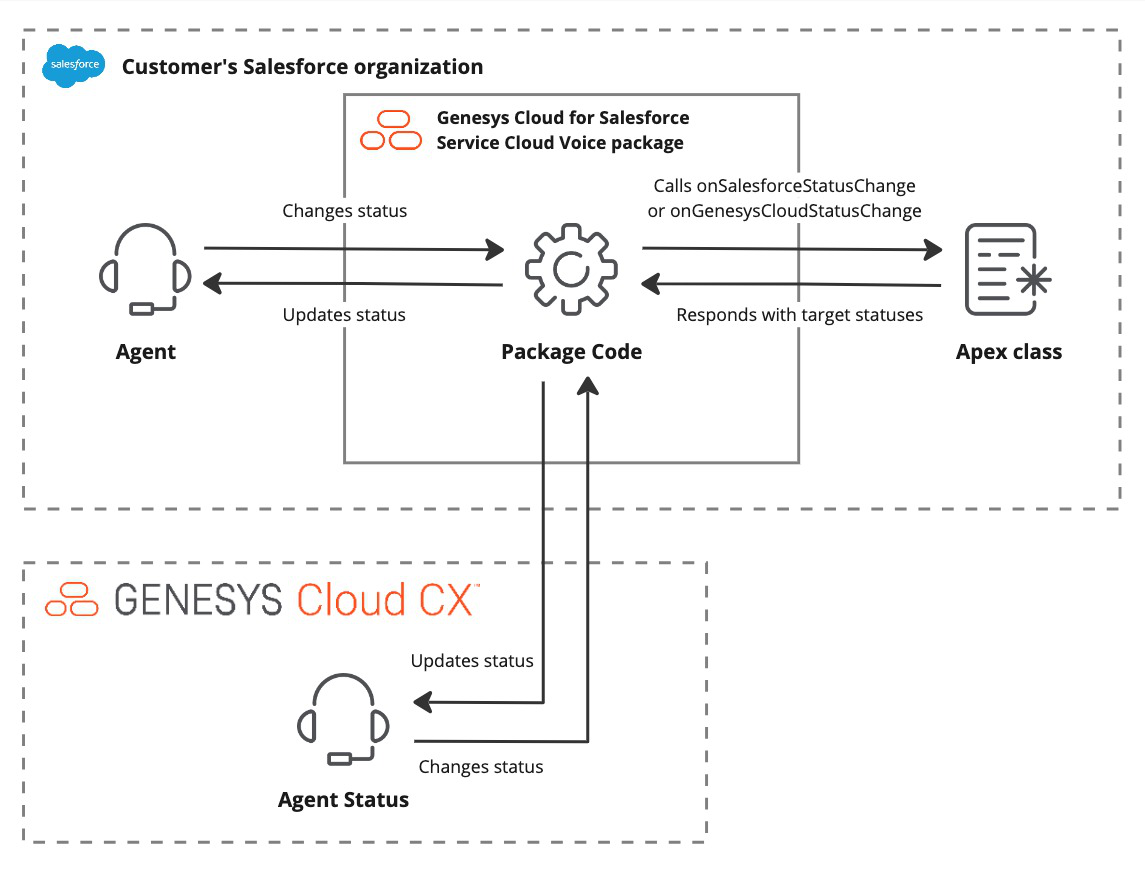
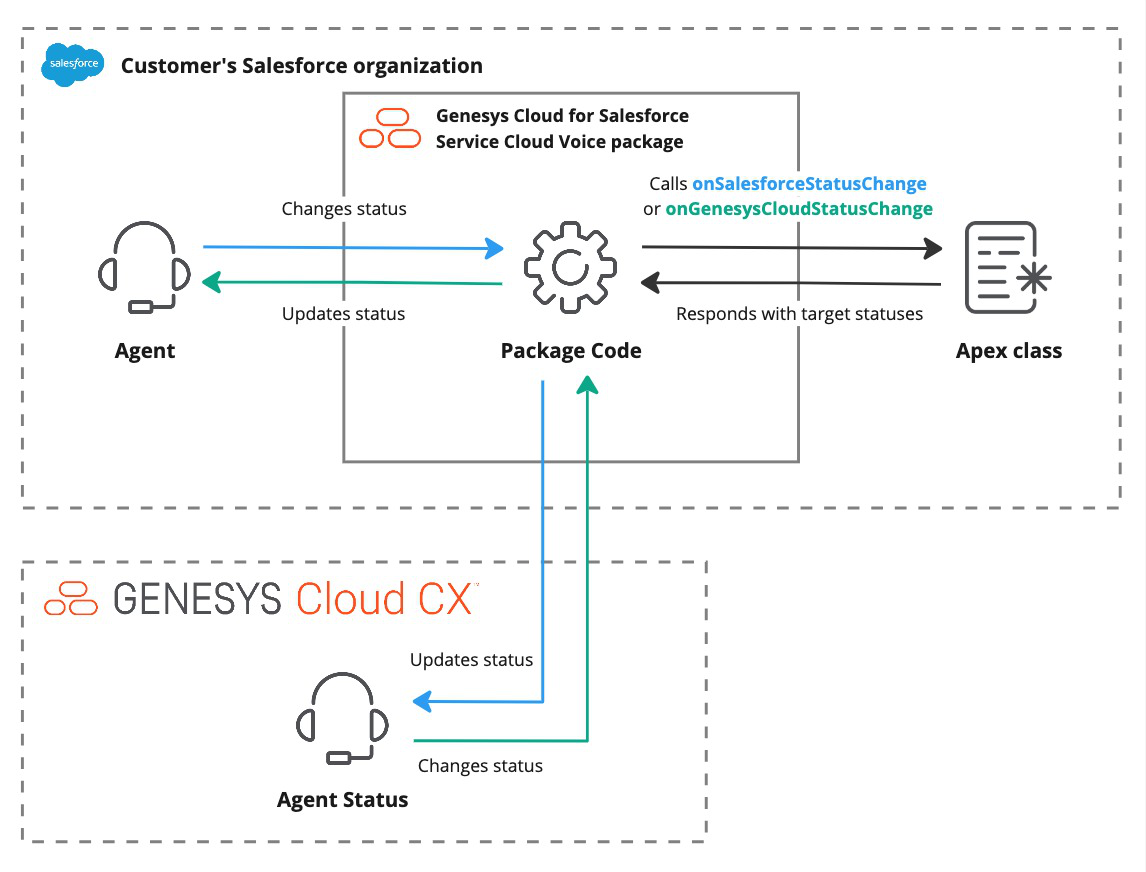
SSCVI-714 Update the image and some text

diff --git a/README.md b/README.md
@@ -1,5 +1,5 @@
 # Update the presence of a Genesys Cloud user based on a Salesforce presence change and vice versa
 
-This Genesys Cloud Developer Blueprint explains how to extend the GenesysSCVExtension.Status class of the Genesys Cloud for Salesforce Service Cloud Voice package. Out of the box, the package provides high level status management. This blueprint will show a way to provide more detailed status mapping between Genesys Cloud and Salesforce Omni-Channel.
+This Genesys Cloud Developer Blueprint demonstrates how to configure Genesys Cloud for Salesforce Service Cloud Voice to use enhanced status syncing. Out of the box, the package provides high level status management. This blueprint will show a way to provide more detailed status mapping between Genesys Cloud and Salesforce Omni-Channel.
 
 ![Workflow for enhanced status syncing with the Genesys Cloud for Salesforce Service Cloud Voice package](/blueprint/images/enhanced_status_syncing.png "Workflow for enhanced status syncing with the Genesys Cloud for Salesforce Service Cloud Voice package")

diff --git a/blueprint/index.md b/blueprint/index.md
@@ -21,7 +21,7 @@ Customers who utilize Workforce Engagement Management will require a deeper stat
 
 ## Solution
 
-This blueprint explains how to extend the GenesysSCVExtension.Status class of the Genesys Cloud for Salesforce Service Cloud Voice package. It shows you how to setup your Apex class to listen to the Lightning Message Channel status change events from both Genesys Cloud and Salesforce. It shows you the format of the incoming and outgoing data and demonstrates how you can customize your status mapping.
+This blueprint explains how to extend the GenesysSCVExtension.Status class of the Genesys Cloud for Salesforce Service Cloud Voice package. It shows you how to setup your Apex class to receive status change events from both Genesys Cloud and Salesforce. It shows you the format of the incoming and outgoing data and demonstrates how you can customize your status mapping.
 
 ## Solution components
 
